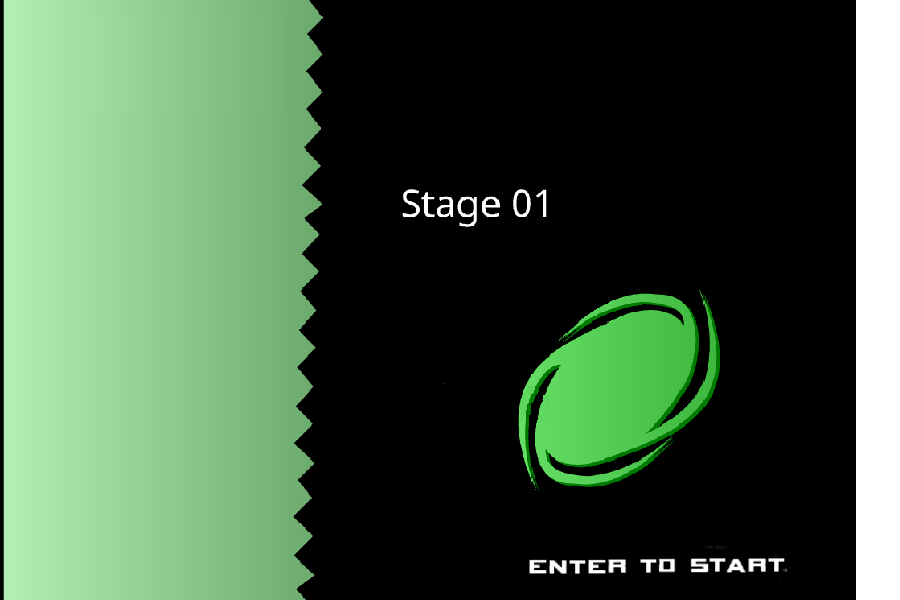
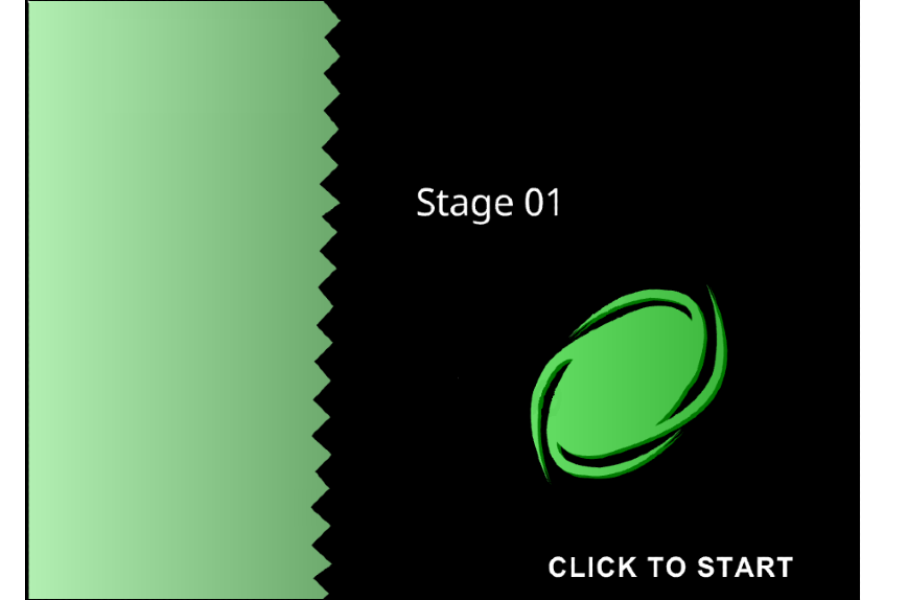
캐릭터 공격 기능 구현
캐릭터 공격 시 hp 감소

diff --git a/character.py b/character.py
@@ -6,6 +6,8 @@ from math import *
 from random import *
 from time import *
 
+import main_state
+
 player_character = None
 computer_character = []
 
@@ -259,7 +261,20 @@ class ATTACK:
         self.x = clamp(0, self.x, 800)
 
         cur_time = time()
+
         if cur_time > set_time + self.TIMER_PER_ACTION[3]:
+            for in_character in computer_character:
+                if main_state.collide(player_character, in_character):
+                    in_character.hp -= 5
+
+                    if in_character.hp <= 0:
+                        computer_character.remove(in_character)
+                        game_world.remove_object(in_character)
+
+                        RandomCharacter()
+                        game_world.add_object(computer_character[2], 1)
+                        computer_character[2].x = main_state.stage.x + randint(-300, 300)
+
             self.cur_state.exit(self, NULL)
             try:
                 if move_dir[0] == False and move_dir[1] == False:
@@ -348,10 +363,6 @@ class Character:
         self.jump_frame = (self.jump_frame + self.FRAMES_PER_ACTION[2] / self.TIMER_PER_ACTION[2] * game_framework.frame_time) % self.FRAMES_PER_ACTION[2]
         self.attack_frame = (self.attack_frame + self.FRAMES_PER_ACTION[3] / self.TIMER_PER_ACTION[3] * game_framework.frame_time) % self.FRAMES_PER_ACTION[3]
 
-    def draw(self):
-        self.cur_state.draw()
-        pass
-
     def add_event(self, event):
         self.event_que.insert(0, event)
 
@@ -359,12 +370,6 @@ class Character:
         if (event.type, event.key) in key_event_table:
             key_event = key_event_table[(event.type, event.key)]
             self.add_event(key_event)
-
-    def get_bb(self):
-        return self.x - 20, self.y - 50, self.x + 20, self.y + 50
-
-    def handle_collision(self, other, group):
-        pass
 
     def Index(self):
         global list
@@ -404,7 +409,7 @@ class Sonic(Character):
         self.cur_state.draw(self)
 
     def get_bb(self):
-        return self.x - 20, self.y - 50, self.x + 20, self.y + 50
+        return self.x - 20, self.y - 20, self.x + 20, self.y + 20
 
     def handle_collision(self, other, group):
         pass
@@ -440,6 +445,12 @@ class Tales(Character):
     def draw(self):
         self.cur_state.draw(self)
 
+    def get_bb(self):
+        return self.x - 20, self.y - 20, self.x + 20, self.y + 20
+
+    def handle_collision(self, other, group):
+        pass
+
 class Knuckles(Character):
     image = None
     icon_image = None
@@ -470,6 +481,12 @@ class Knuckles(Character):
 
     def draw(self):
         self.cur_state.draw(self)
+
+    def get_bb(self):
+        return self.x - 20, self.y - 20, self.x + 20, self.y + 20
+
+    def handle_collision(self, other, group):
+        pass
 
 class AmyRose(Character):
     image = None
@@ -502,6 +519,12 @@ class AmyRose(Character):
     def draw(self):
         self.cur_state.draw(self)
 
+    def get_bb(self):
+        return self.x - 20, self.y - 20, self.x + 20, self.y + 20
+
+    def handle_collision(self, other, group):
+        pass
+
 class Tikal(Character):
     image = None
     icon_image = None
@@ -532,6 +555,12 @@ class Tikal(Character):
 
     def draw(self):
         self.cur_state.draw(self)
+
+    def get_bb(self):
+        return self.x - 20, self.y - 20, self.x + 20, self.y + 20
+
+    def handle_collision(self, other, group):
+        pass
 
 class Rouge(Character):
     image = None
@@ -564,6 +593,12 @@ class Rouge(Character):
     def draw(self):
         self.cur_state.draw(self)
 
+    def get_bb(self):
+        return self.x - 20, self.y - 20, self.x + 20, self.y + 20
+
+    def handle_collision(self, other, group):
+        pass
+
 class Shadow(Character):
     image = None
     icon_image = None
@@ -594,6 +629,12 @@ class Shadow(Character):
 
     def draw(self):
         self.cur_state.draw(self)
+
+    def get_bb(self):
+        return self.x - 20, self.y - 20, self.x + 20, self.y + 20
+
+    def handle_collision(self, other, group):
+        pass
 
 ##############################################################################################################
 
@@ -628,6 +669,12 @@ class Silver(Character):
     def draw(self):
         self.cur_state.draw(self)
 
+    def get_bb(self):
+        return self.x - 20, self.y - 20, self.x + 20, self.y + 20
+
+    def handle_collision(self, other, group):
+        pass
+
 class Blaze(Character):
     image = None
     icon_image = None
@@ -658,6 +705,12 @@ class Blaze(Character):
 
     def draw(self):
         self.cur_state.draw(self)
+
+    def get_bb(self):
+        return self.x - 20, self.y - 20, self.x + 20, self.y + 20
+
+    def handle_collision(self, other, group):
+        pass
 
 class Espio(Character):
     image = None
@@ -690,6 +743,12 @@ class Espio(Character):
     def draw(self):
         self.cur_state.draw(self)
 
+    def get_bb(self):
+        return self.x - 20, self.y - 20, self.x + 20, self.y + 20
+
+    def handle_collision(self, other, group):
+        pass
+
 class Mighty(Character):
     image = None
     icon_image = None
@@ -720,6 +779,12 @@ class Mighty(Character):
 
     def draw(self):
         self.cur_state.draw(self)
+
+    def get_bb(self):
+        return self.x - 20, self.y - 20, self.x + 20, self.y + 20
+
+    def handle_collision(self, other, group):
+        pass
 
 class SuperSonic(Character):
     image = None
@@ -754,9 +819,14 @@ class SuperSonic(Character):
         if self.attack % 2 == 1:
             self.FRAMES_PER_ACTION[3] = 2
 
-
     def draw(self):
         self.cur_state.draw(self)
+
+    def get_bb(self):
+        return self.x - 20, self.y - 20, self.x + 20, self.y + 20
+
+    def handle_collision(self, other, group):
+        pass
 
 class SuperShadow(Character):
     image = None
@@ -788,3 +858,9 @@ class SuperShadow(Character):
 
     def draw(self):
         self.cur_state.draw(self)
+
+    def get_bb(self):
+        return self.x - 20, self.y - 20, self.x + 20, self.y + 20
+
+    def handle_collision(self, other, group):
+        pass

diff --git a/main_state.py b/main_state.py
@@ -2,7 +2,9 @@ import game_framework
 import game_world
 import middle_state
 import result_state
+
 from time import *
+from random import *
 
 import character
 from map import *
@@ -71,9 +73,9 @@ def drawHp(a, x, y):
         stage.timer_image.clip_composite_draw(39 * (b - 5), 0, 26, 22, 0, ' ', x - 22, y, 22, 22)
 
     # a % 10
-    if 0 <= (a % 10) // 10 <= 4:
+    if 0 <= a % 10 <= 4:
         stage.timer_image.clip_composite_draw(39 * (a % 10), 36, 26, 22, 0, ' ', x, y, 22, 22)
-    if 5 <= (a % 10) // 10 <= 9:
+    if 5 <= a % 10 <= 9:
         stage.timer_image.clip_composite_draw(39 * ((a % 10) - 5), 0, 26, 22, 0, ' ', x, y, 22, 22)
 
 def drawIcon(a, x, y):
@@ -111,9 +113,9 @@ def enter():
     game_world.add_object(stage, 0)
 
     character.player_character.x = 400
-    character.computer_character[0].x = 150
-    character.computer_character[1].x = 550
-    character.computer_character[2].x = 700
+    character.computer_character[0].x = randint(100, 700)
+    character.computer_character[1].x = randint(100, 700)
+    character.computer_character[2].x = randint(100, 700)
 
 def exit():
     global stage, sound
@@ -135,22 +137,26 @@ def update():
         result_state.win = False
         game_framework.change_state(result_state)
 
-    stage.x -= character.player_character.dir_x * character.RUN_SPEED_PPS * game_framework.frame_time
-    for i in range(3):
-        character.computer_character[i].x -= character.player_character.dir_x * character.RUN_SPEED_PPS * game_framework.frame_time
+    distance_x = character.player_character.dir_x * character.RUN_SPEED_PPS * game_framework.frame_time
+    stage.x -= distance_x
+    for in_character in character.computer_character:
+        in_character.x -= distance_x
 
 def draw_world():
     global stage_time
     for game_object in game_world.all_objects():
         game_object.draw()
 
+    number_character = 0
     tm = localtime(stage_time)
     drawTimer(tm.tm_min, tm.tm_sec)
     drawHp(character.player_character.hp, 150, 50)
     drawIcon(character.player_character, 70, 50)
-    for i in range(3):
-        drawHp(character.computer_character[i].hp, 350 + (i * 200), 50)
-        drawIcon(character.computer_character[i], 270 + (i * 200), 50)
+
+    for in_character in character.computer_character:
+        drawHp(in_character.hp, 350 + (number_character * 200), 50)
+        drawIcon(in_character, 270 + (number_character * 200), 50)
+        number_character += 1
 
 def draw():
     clear_canvas()

diff --git a/middle_state.py b/middle_state.py
@@ -13,11 +13,11 @@ def handle_events():
         elif event.type == SDL_KEYDOWN:
             if event.key == SDLK_ESCAPE:
                 game_framework.quit()
-            elif event.key == SDLK_RETURN:
-                if main_state.stage_count == 0:
-                    game_framework.change_state(main_state)
-                else:
-                    game_framework.pop_state()
+        elif event.type == SDL_MOUSEBUTTONDOWN:
+            if main_state.stage_count == 0:
+                game_framework.change_state(main_state)
+            else:
+                game_framework.pop_state()
 
 def enter():
     global image

diff --git a/ready_state.py b/ready_state.py
@@ -128,7 +128,7 @@ def draw():
                 character_image.clip_draw(470, 250, 150, 120, 410, 140)
                 character_name.clip_draw(0, 311, 100, 23, 405, 47)
 
-        stage_go.clip_draw(0, 0, 200, 200, 720, 90, 180, 180)
+        stage_go.clip_draw(0, 0, 230, 200, 700, 90, 200, 180)
 
     update_canvas()
 
